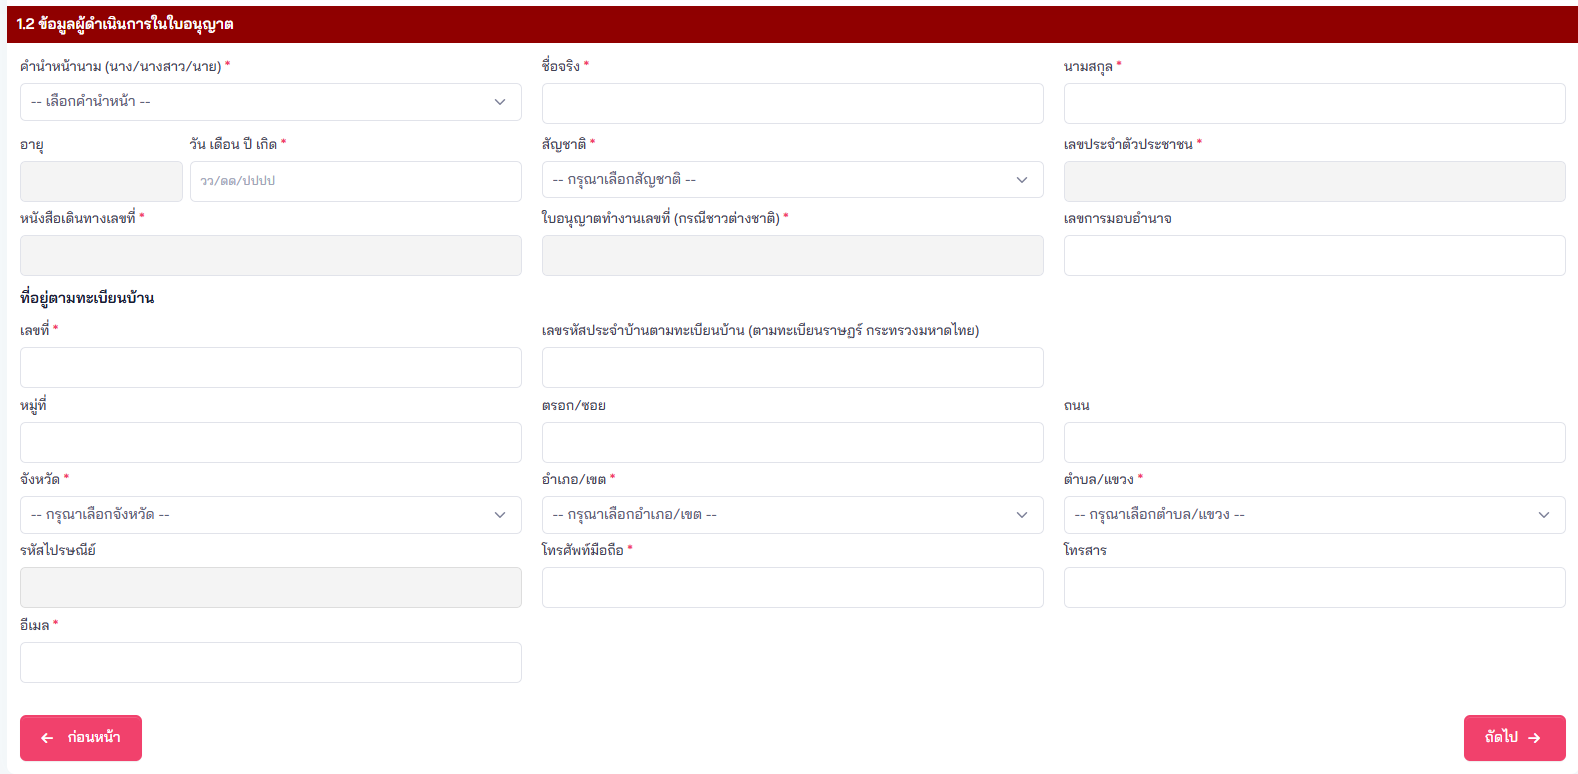
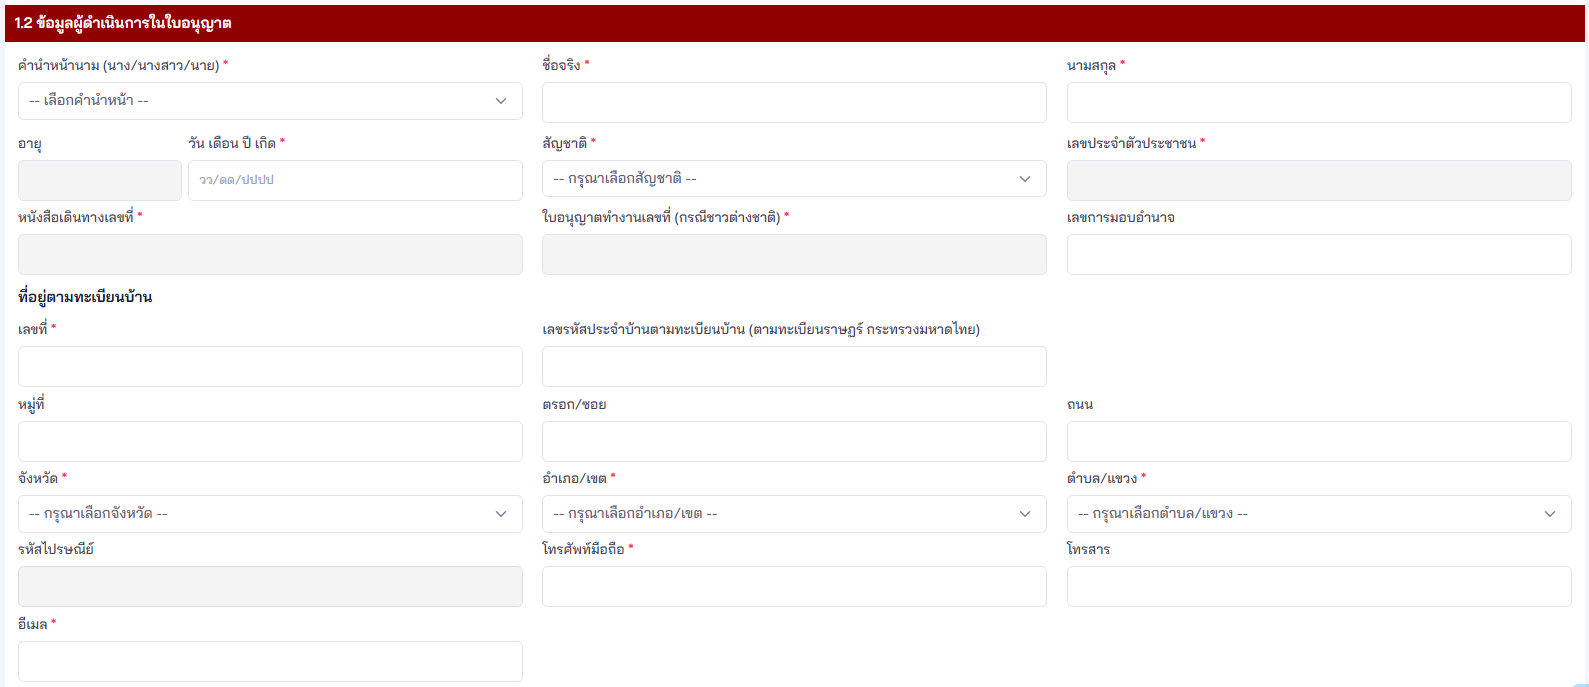
update

diff --git a/Narcotic4_Condition.md b/Narcotic4_Condition.md
@@ -138,15 +138,15 @@ table {
 
 | ลำดับ | Lable | Table.Field | Condition | Remark |
 |---|---|---|---|---|
-| 0 | - | `RequisitionParticipant`.`ParticipantTypeId` | ส่ง 2 ผู้ดำเนิน |  |
+| 0 | - | `RequisitionParticipant`.`ParticipantTypeId` | ส่ง 2 - ผู้ดำเนิน |  |
 | 1 | คำนำหน้านาม | `RequisitionParticipant`.`PrefixId` |  |  |
-| 2 | ชื่อจริง | `RequisitionParticipant`.`aa` |  |  |
-| 3 | นามสกุล | `RequisitionParticipant`.`aa` |  |  |
-| 4 | อายุ | `RequisitionParticipant`.`aa` |  |  |
-| 5 | วัน เดือน ปี เกิด | `RequisitionParticipant`.`aa` |  |  |
-| 6 | สัญชาติ | `RequisitionParticipant`.`aa` |  |  |
-| 7 | เลขประจำตัวประชาชน | `RequisitionParticipant`.`CitizenId` | - Cannot over 13 digits | - Need separator (0-0000-00000-00-0) |
-| 8 | หนังสือเดินทางเลขที่ | `RequisitionParticipant`.`aa` |  |  |
+| 2 | ชื่อจริง | `RequisitionParticipant`.`FirstName` |  |  |
+| 3 | นามสกุล | `RequisitionParticipant`.`LastName` |  |  |
+| 4 | อายุ | `RequisitionParticipant`.`Age` |  |  |
+| 5 | วัน เดือน ปี เกิด | `RequisitionParticipant`.`BirthDate` |  |  |
+| 6 | สัญชาติ | `RequisitionParticipant`.`NationalityId` |  |  |
+| 7 | เลขประจำตัวประชาชน | `RequisitionParticipant`.`` | - Cannot over 13 digits | - Need separator (0-0000-00000-00-0) |
+| 8 | หนังสือเดินทางเลขที่ | `RequisitionParticipant`.`WorkPermit` |  |  |
 | 9 | ใบอนุญาตทำงานเลขที่ (กรณีชาวต่างชาติ) | `RequisitionParticipant`.`aa` |  |  |
 | 10 | เลขการมอบอำนาจ | `RequisitionParticipant`.`aa` |  |  |
 | 11 | เลขที่ | `RequisitionParticipant`.`HouseNo` | - Can type text เพื่อให้รองรับ อาคาร ชั้น ห้อง |  |

diff --git a/Table_13-03-2026.md b/Table_13-03-2026.md
@@ -50,6 +50,7 @@ table {
 | 23 | Fax | nvarchar(10) | โทรสาร |
 | 24 | Email | nvarchar(255) | อีเมล |
 
+<img src="Narcotic4_Field Condition_3.png" style="border: 1px solid black;" width="100%">
 <img src="Narcotic4_Field Condition_4.png" style="border: 1px solid black;" width="100%">
 
 ```
